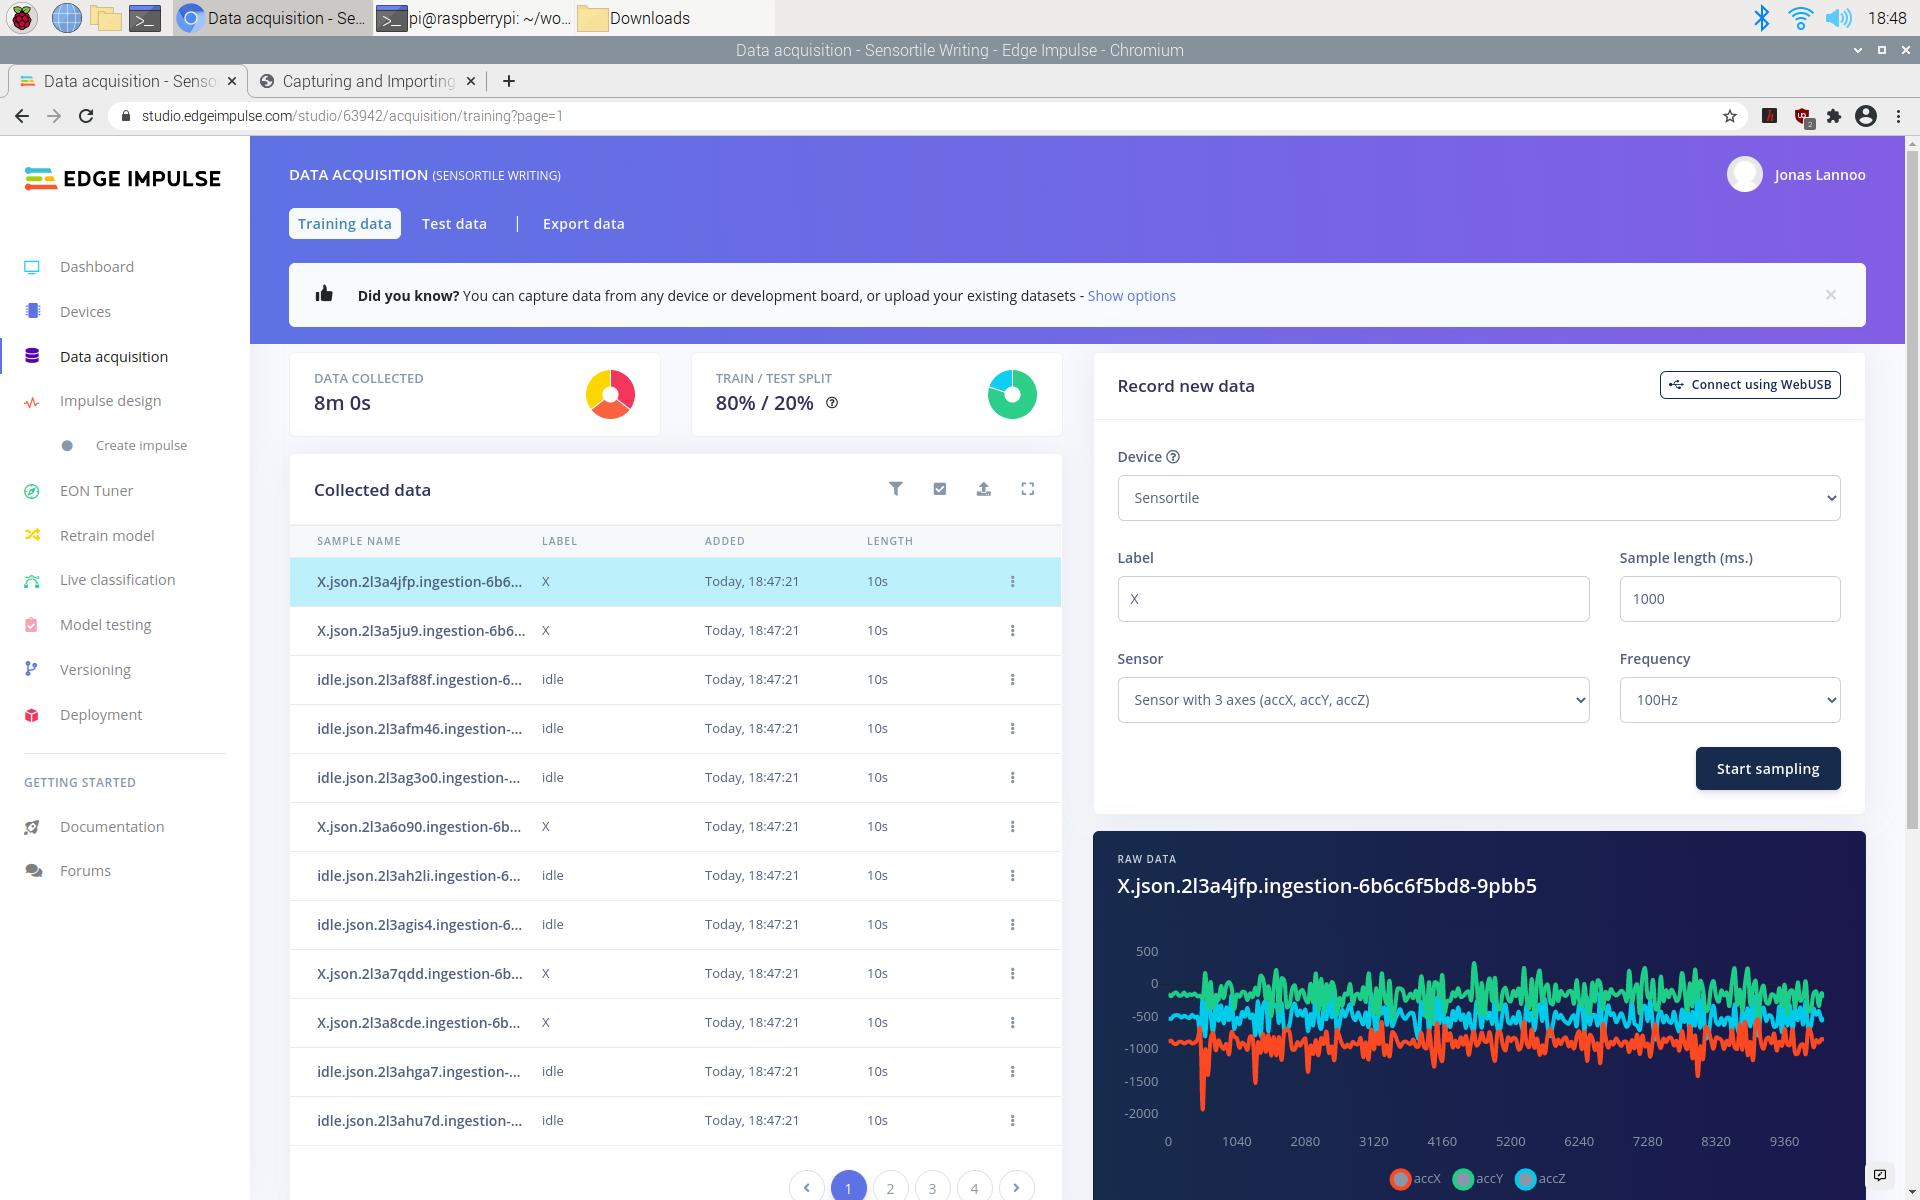
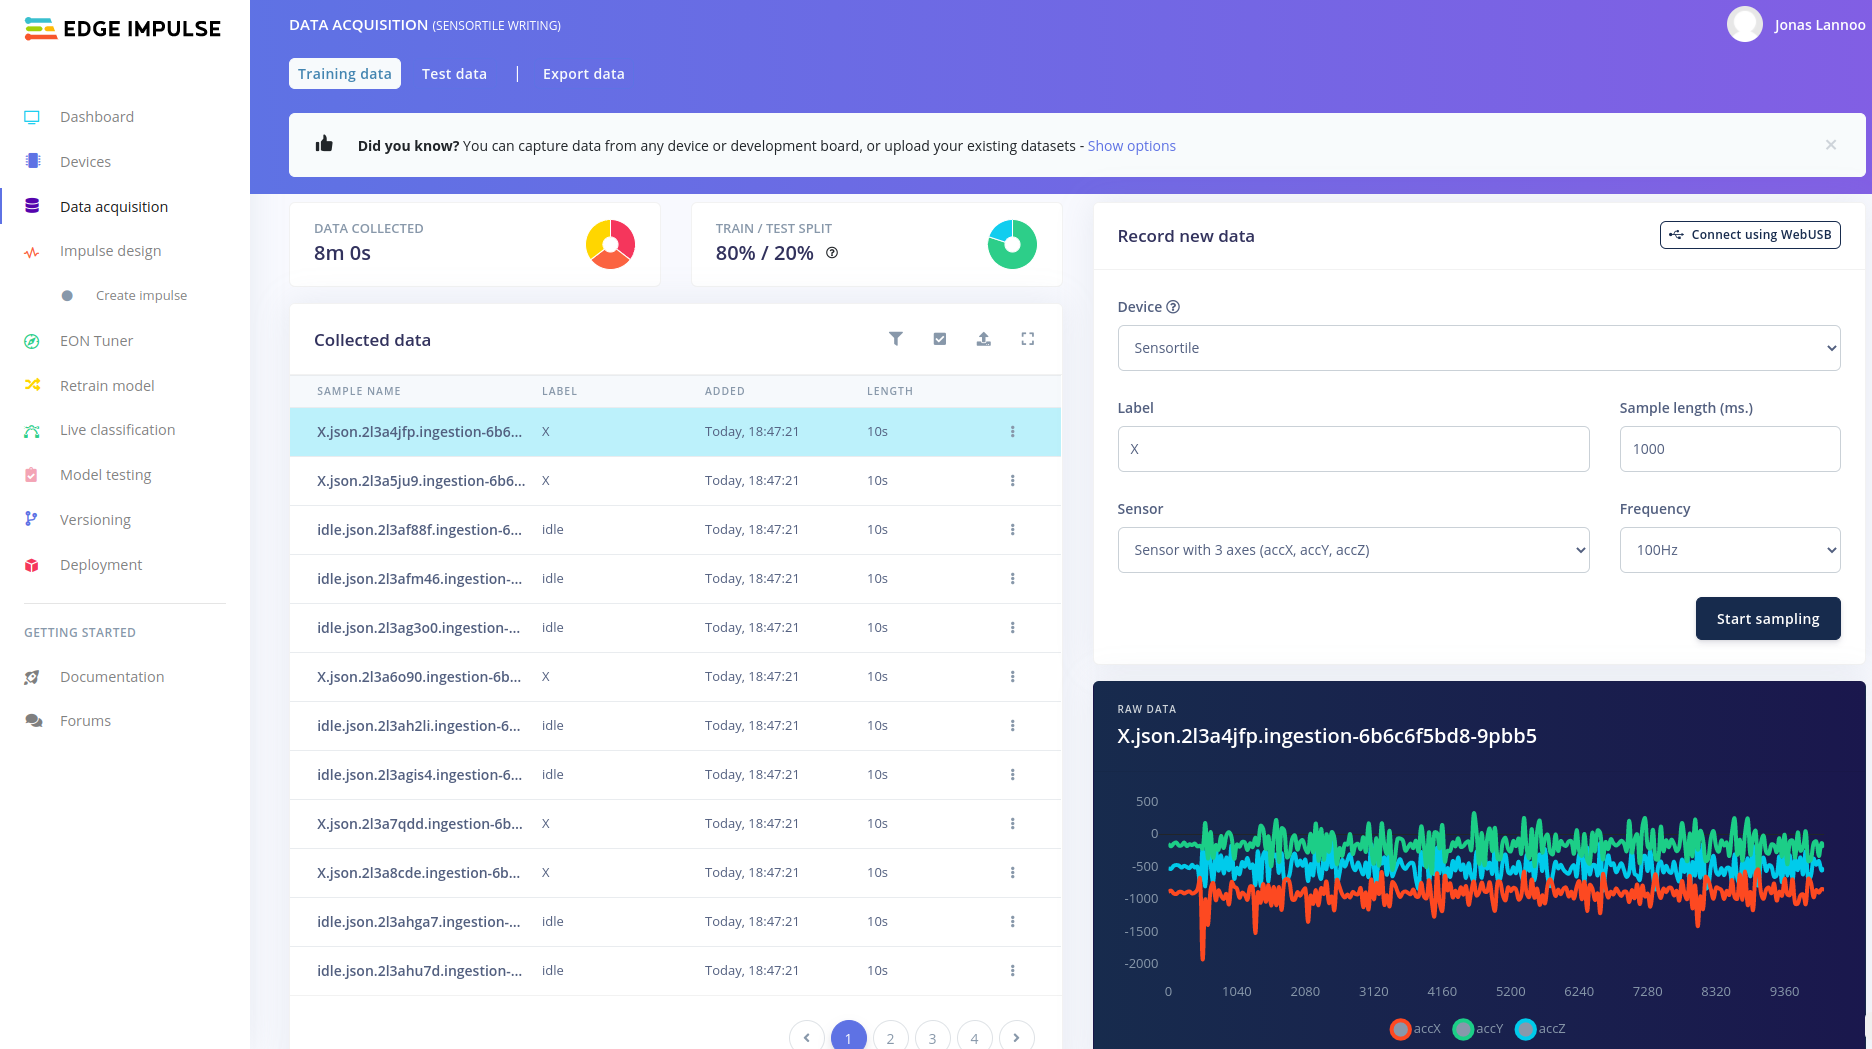
changed figure sizes and updated capturing data

diff --git a/src/02-ab-writing/05-capturing-and-importing-data/index.md b/src/02-ab-writing/05-capturing-and-importing-data/index.md
@@ -38,7 +38,49 @@ The labels that are chosen in this example are:
 
 The capturing plan goes as follows:
 
-1. Capture 20x 10 seconds of writing the letter X continuously (with very short pauses in between <100 ms)
-2. Capture 20x 10 seconds of writing the letter O continuously (with very short pauses in between <100 ms)
+1. Capture 20x 10 seconds of writing the letter X continuously (with very short pauses in between <500 ms)
+2. Capture 20x 10 seconds of writing the letter O continuously (with very short pauses in between <500 ms)
 3. Capture 20x 10 seconds of idle by putting the pen in several positions on the desk, holding it in hand still for a few seconds, move around without writing anythign down.
 
+After collecting the data, your Edge Impulse project should look like this:
+
+![Data Collection Done](img/ei_unsplitted_data.png)
+
+A total of 10 minutes of data has been collected. The **TRAIN / TEST SPLIT** window shows an error by showing a small red warning sign. This means that there is no test data available yet. This will be solved shortly.
+
+Two options are possible now:
+
+1. We can use the data as-is. (blocks of 10 seconds)
+2. We can manually split the data to only save the captured parts where you were actually writing letters or numbers.
+
+:::tip
+
+**Note**
+
+In this example we will go forward by choosing option **1**. Choosing option two requires some pre-processing and determining yourself when you started writing and stopped writing. Another solution to do this is to only record the writing of a single letter. These options could result in better detection performance, but require more time. In the workshop this will not be done to save time.
+
+:::
+
+## Splitting in Training and Test dataset
+
+In order to validate the training of the future neural network, the dataset has to be split up in a part to **train**, and a part to **test** the resulting network. Instead of doing this manually we can let Edge Impulse do this for you.
+
+Browse to the Dashboard page of your Edge Impulse project and scroll down to the bottom of the page.
+
+There you should a red **Danger zone** with buttons that can have a huge effect on your project functionality and end-result. Press the **Perform train / test split** button to split up our currently collected dataset. Edge Impulse will ask for a confirmation and explicitly type "perform split" to perform the split.
+
+![Split dataset](img/ei_split_data.png)
+
+Going back to the **Data acquisition** board should show us the same dataset, but now the warning at the **TRAIN / TEST SPLIT** should have dissapeared. The pie-chart and the percentages should show that the data has been split up with a 80/20 ratio, train and test part respectively.
+
+![Data splitted](img/ei_splitted_data.png)
+
+Now the data collection is ready and you can advance to creating features out of the data, creating a neural network and training it. In Edge Impulse this is equal to an impulse design.
+
+:::tip
+
+**Data export and import**
+
+Edge Impulse allows you to export the data you have collected with it's tools and import previously collected and exported data. **Exporting** can be done by using the "Export data" option at the top of main dashboard page or the data acquisition window. Several export types are available. **Importing** data can be done as well by pressing the "drive with and arrow (pointing up)"-button which is located on the right side of your collected data. Again several formats are available. More information and other methods are available in the [Edge Impulse documentation](https://docs.edgeimpulse.com/reference/ingestion-api).
+
+:::
